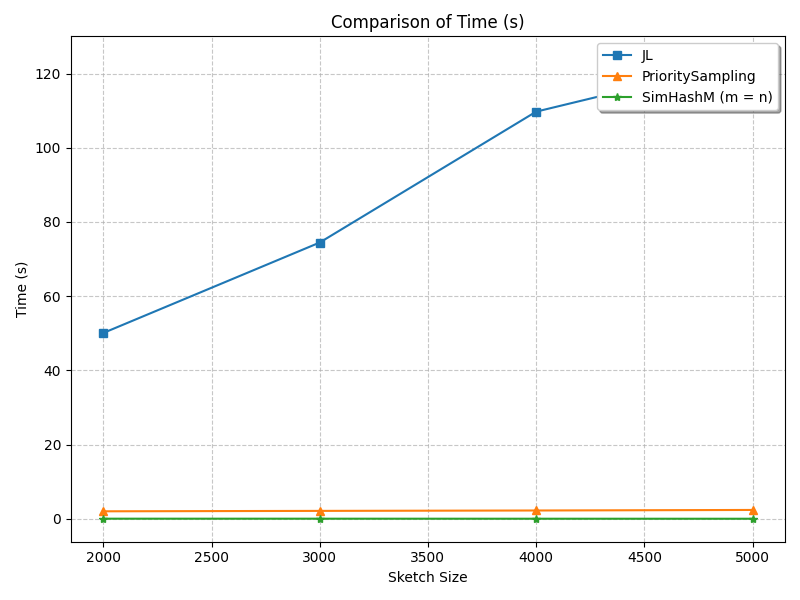
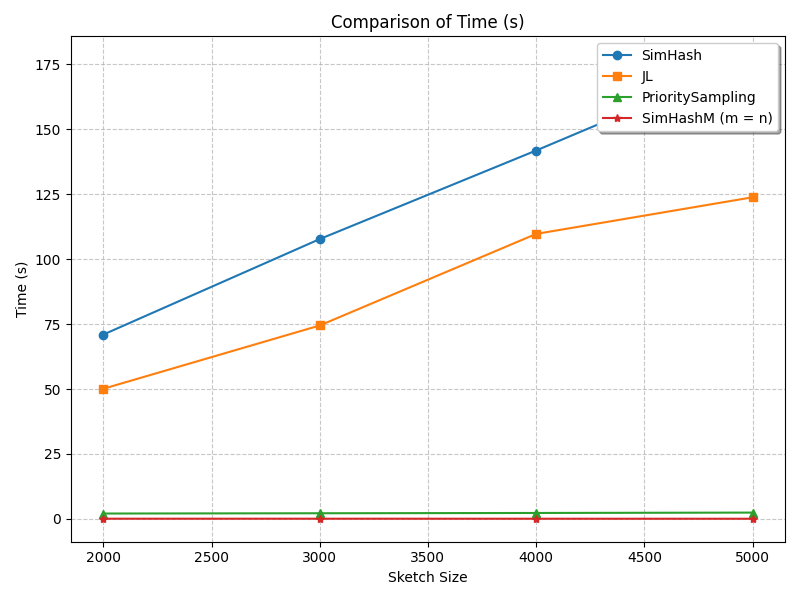
update

diff --git a/storage_size_plots.py b/storage_size_plots.py
@@ -28,7 +28,7 @@ def plot_time(sh, jl, ps, shm):
     plt.ylabel('Time (s)')
     plt.grid(True, linestyle='--', alpha=0.7)
 
-    # plt.plot(sh.iloc[:,0], sh.iloc[:,3], label='SimHash', linestyle='-', marker='o')
+    plt.plot(sh.iloc[:,0], sh.iloc[:,3], label='SimHash', linestyle='-', marker='o')
     plt.plot(jl.iloc[:,0], jl.iloc[:,3], label='JL', linestyle='-', marker='s')
     plt.plot(ps.iloc[:,0], ps.iloc[:,3], label='PrioritySampling', linestyle='-', marker='^')
     plt.plot(shm.iloc[:,0], shm.iloc[:,3], label='SimHashM (m = n)', linestyle='-', marker='*')
@@ -36,7 +36,7 @@ def plot_time(sh, jl, ps, shm):
     plt.legend(loc='upper right', frameon=True, shadow=True)
     plt.tight_layout()
 
-    plt.savefig('./results/storage_0.01_time.png')
+    plt.savefig('./results/storage_time.png')
 
 
 sh = pd.read_csv('./results/storage_SimHash.csv')

diff --git a/simHash.py b/simHash.py
@@ -1,5 +1,6 @@
 import numpy as np
 import scipy.sparse as sparse
+import math
 
 #
 # SimHash Sketch
@@ -23,10 +24,13 @@ class SHSketch():
         dot_product = np.dot(self.sk_values, other.sk_values)
         norm_Sa = np.linalg.norm(self.sk_values)
         norm_Sb = np.linalg.norm(other.sk_values)
+        
         # norm_Sa = np.sqrt(len(self.sk_values))
         # norm_Sb = np.sqrt(len(other.sk_values))
         # print(f"cosine: {dot_product / (norm_Sa * norm_Sb)}")
+        
         return dot_product / (norm_Sa * norm_Sb) * self.norm * other.norm
+        # return math.cos(math.pi / (2 * len(self.sk_values))) * np.linalg.norm(self.sk_values - other.sk_values, ord=1)
 
 class SimHash():
     def __init__(self, sketch_size, vector_size) -> None:

diff --git a/sketch_size_plots.py b/sketch_size_plots.py
@@ -28,7 +28,7 @@ def plot_time(sh, jl, ps, shm):
     plt.ylabel('Time (s)')
     plt.grid(True, linestyle='--', alpha=0.7)
 
-    # plt.plot(sh.iloc[:,0], sh.iloc[:,3], label='SimHash', linestyle='-', marker='o')
+    plt.plot(sh.iloc[:,0], sh.iloc[:,3], label='SimHash', linestyle='-', marker='o')
     plt.plot(jl.iloc[:,0], jl.iloc[:,3], label='JL', linestyle='-', marker='s')
     plt.plot(ps.iloc[:,0], ps.iloc[:,3], label='PrioritySampling', linestyle='-', marker='^')
     plt.plot(shm.iloc[:,0], shm.iloc[:,3], label='SimHashM (m = n)', linestyle='-', marker='*')
